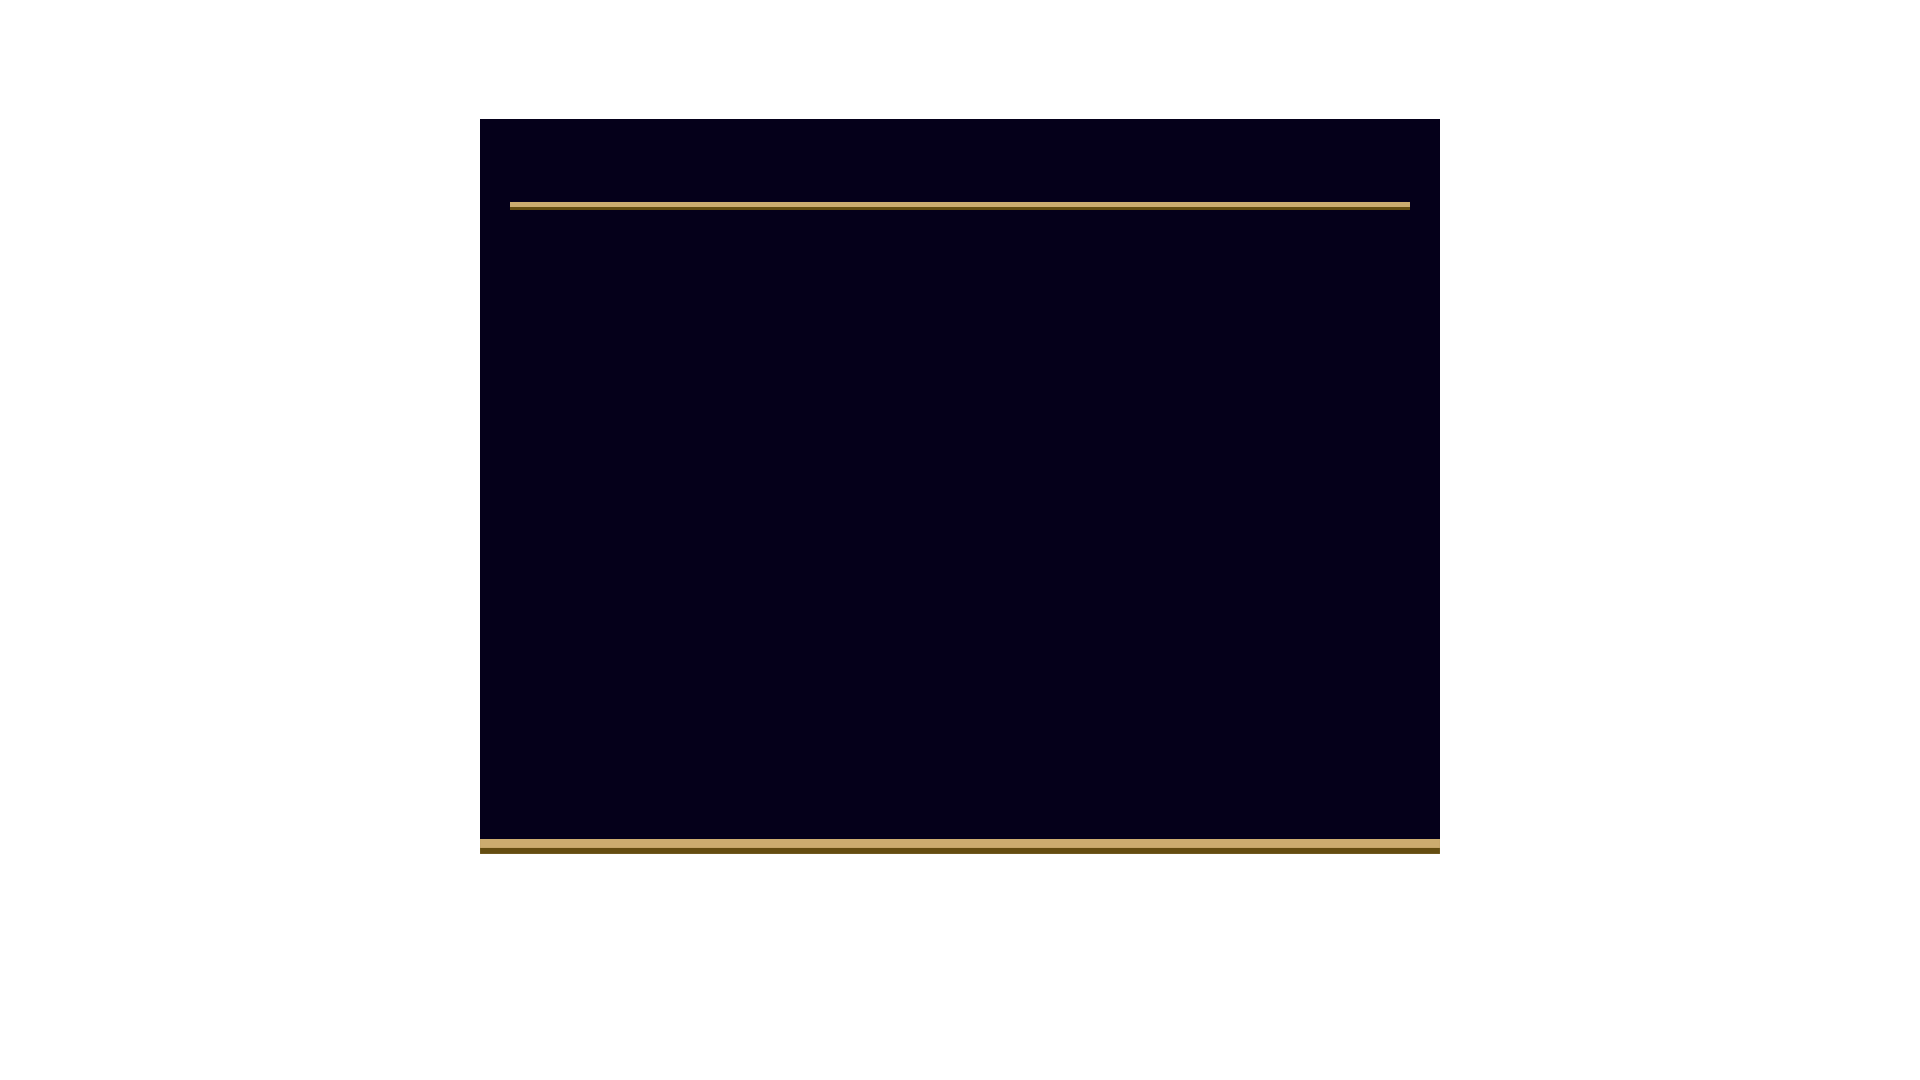
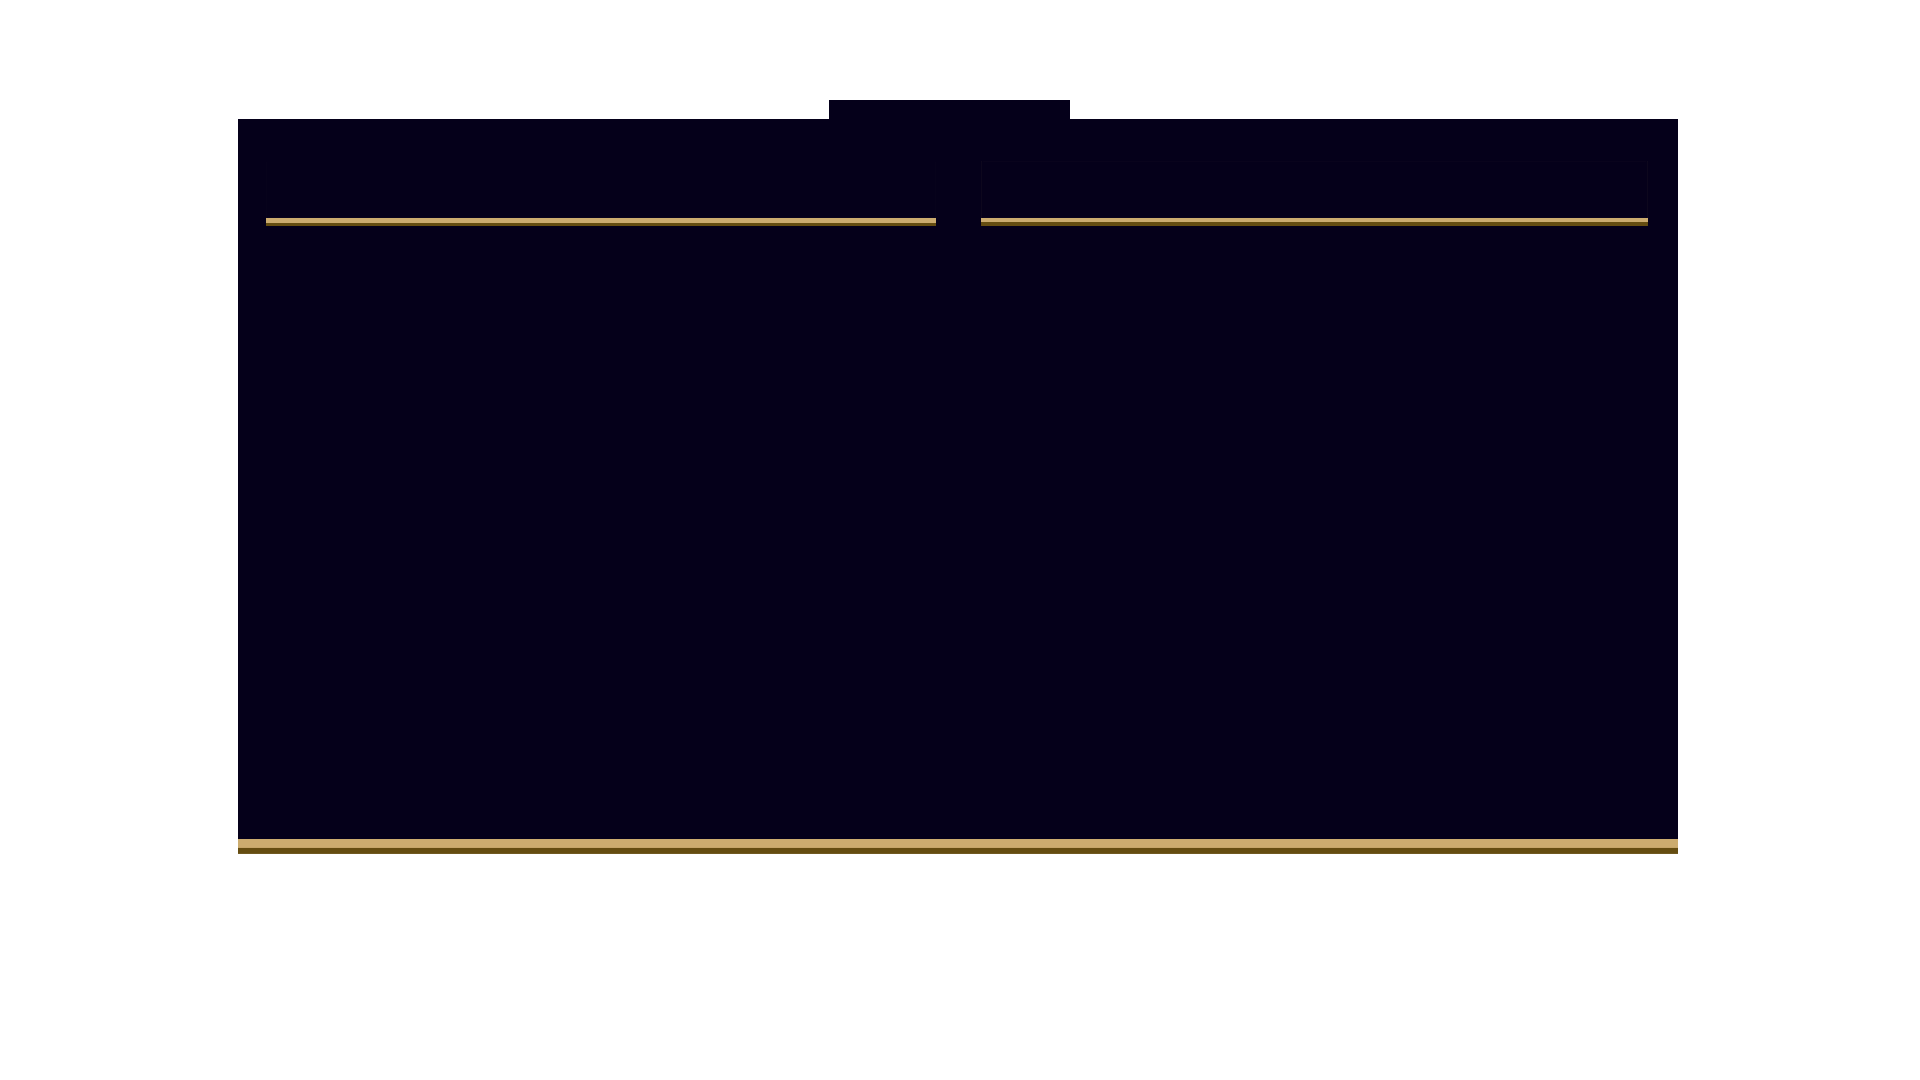
no message

Changed region(s): [[0.125, 0.0917, 0.875, 0.7944], [0.4062, 0.0917, 0.5625, 0.1222]]

diff --git a/Assets/UI/UpdateUI.cs b/Assets/UI/UpdateUI.cs
@@ -141,6 +141,8 @@ public class UpdateUI : MonoBehaviour
     private string dropdownTimelinePick;
 
     // Text Event Popup
+    public Text txtEventTitle;
+    public Text txtEventColumRight;
     public Text txtEventConsequencesChoice;
     public Button btnViewConsequencesEvent;
     public Text txtBtnViewConsequencesEvent;
@@ -3027,7 +3029,8 @@ public class UpdateUI : MonoBehaviour
 
         playSelectSound = true;
 
-        btnDoEvent.interactable = false;
+        //btnDoEvent.interactable = false;
+        btnDoEvent.gameObject.SetActive(false);
         btnViewConsequencesEvent.interactable = false;
     }
 
@@ -3041,11 +3044,13 @@ public class UpdateUI : MonoBehaviour
         string[] txtMonths = { " maanden", " months" };
         string[] txtMonth = { " maand", " month" };
 
+        txtEventTitle.text = "Event";
         txtEventName.text = "EVENT: " + e.publicEventName[taal] + " (" + regionEvent.name[taal] + ")";
         txtEventDescription.text = e.description[taal];
         txtBtnDoEvent.text = txtBtn[taal];
         txtBtnViewConsequencesEvent.text = txtBtn2[taal];
         txtEventConsequencesChoice.text = "";
+        txtEventColumRight.text = "";
 
         if (ApplicationModel.language == 0)
         {
@@ -3092,7 +3097,9 @@ public class UpdateUI : MonoBehaviour
             else
                 btnDoEvent.interactable = false;
 
-
+            btnDoEvent.gameObject.SetActive(true);
+            string[] txt = { "Consequenties", "Consequences "};
+            txtEventColumRight.text = txt[taal];
             txtEventConsequencesChoice.text = getSectorStatisticsConsequences(gameEvent.pickedConsequences[0]); 
         }
         else
@@ -3119,7 +3126,9 @@ public class UpdateUI : MonoBehaviour
             else
                 btnDoEvent.interactable = false;
 
-
+            btnDoEvent.gameObject.SetActive(true);
+            string[] txt = { "Consequenties", "Consequences " };
+            txtEventColumRight.text = txt[taal];
             txtEventConsequencesChoice.text = getSectorStatisticsConsequences(gameEvent.pickedConsequences[1]); 
         }
         else
@@ -3146,6 +3155,9 @@ public class UpdateUI : MonoBehaviour
             else
                 btnDoEvent.interactable = false;
 
+            btnDoEvent.gameObject.SetActive(true);
+            string[] txt = { "Consequenties", "Consequences " };
+            txtEventColumRight.text = txt[taal];
             txtEventConsequencesChoice.text = getSectorStatisticsConsequences(gameEvent.pickedConsequences[2]); 
         }
         else
@@ -3158,7 +3170,9 @@ public class UpdateUI : MonoBehaviour
     {
         if (!radioEventOption1Check && !radioEventOption2Check && !radioEventOption3Check)
         {
-            btnDoEvent.interactable = false;
+            btnDoEvent.gameObject.SetActive(false);
+            txtEventColumRight.text = "";
+            //btnDoEvent.interactable = false;
             btnViewConsequencesEvent.interactable = false;
             txtEventConsequencesChoice.text = "";
         }
